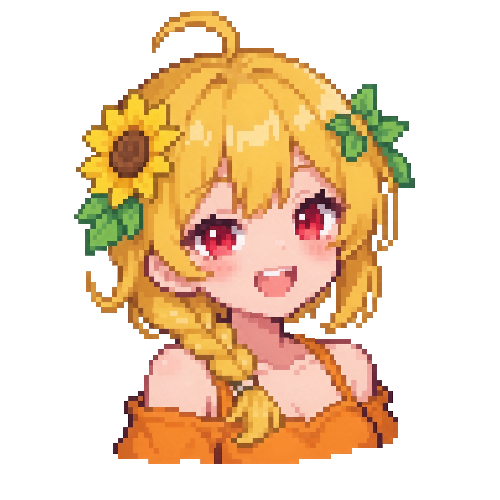
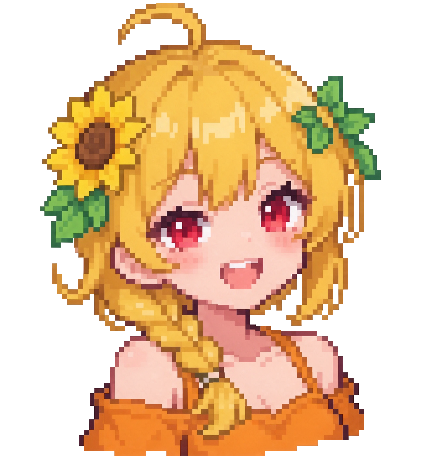
略微缩放NPC采花匠的对话肖像图

diff --git a/Common/UI/PortraitUISystem.cs b/Common/UI/PortraitUISystem.cs
@@ -6,11 +6,10 @@ using Terraria;
 using Terraria.ID;
 using Terraria.ModLoader;
 using Terraria.UI;
-using CalamityMod.Prefixes;
-using LaziestNPC.Content.NPCs.TownNPCs;
 using Terraria.GameContent;
 using Terraria.UI.Chat;
 using Terraria.Localization;
+using LaziestNPC.Content.NPCs.TownNPCs;
 
 namespace LaziestNPC.Common.UI
 {
@@ -25,7 +24,7 @@ namespace LaziestNPC.Common.UI
         private int portraitAnimTimer = 0; //弹跳计时器
 
         //2.注册绘制层
-        //找到原版对话窗口所在的图层，在它后面插入我们自己的肖像层。
+        //找到原版对话窗口所在的图层，在它后面插入肖像层。
         //这样肖像会绘制在对话窗口旁边，且不会挡住对话内容。
         public override void ModifyInterfaceLayers(List<GameInterfaceLayer> layers)
         {
@@ -85,7 +84,7 @@ namespace LaziestNPC.Common.UI
             float offsetX = -28f; //负值往左，正值往右
             float offsetY = -25f; //负值往上，正值往下
 
-            //(5-1) 计算弹跳偏移
+            //(6) 计算弹跳偏移
             portraitAnimTimer++;
             float bounceOffset = 0f;
             if (portraitAnimTimer < 20)
@@ -102,13 +101,13 @@ namespace LaziestNPC.Common.UI
             float portraitX = dialogLeft - size - gap + offsetX;
             float portraitY = dialogTop + offsetY + bounceOffset;
 
-            //(6)：绘制背景框
+            //(7)：绘制背景框
             Texture2D bg = ModContent.Request<Texture2D>("LaziestNPC/Assets/UI/PortraitBackground").Value;
             Main.spriteBatch.Draw(bg,
                 new Rectangle((int)portraitX, (int)portraitY, (int)size, (int)size),
                 Color.White);
 
-            //(7)：绘制肖像图
+            //(8)：绘制肖像图
             //路径来自 currentPortraitPath，是对话开始时随机缓存的那一张。
             Texture2D portrait = ModContent.Request<Texture2D>(currentPortraitPath).Value;
 
@@ -126,7 +125,7 @@ namespace LaziestNPC.Common.UI
                 new Rectangle((int)drawX, (int)drawY, (int)drawWidth, (int)drawHeight),
                 Color.White);
 
-            //(8)：绘制NPC名字
+            //(9)：绘制NPC名字
             //名字显示在肖像框下方，水平居中。
             string npcName = Language.GetTextValue($"Mods.LaziestNPC.NPCs.{npc.ModNPC.Name}.PortraitName");
             Vector2 nameSize = ChatManager.GetStringSize(FontAssets.MouseText.Value, npcName, Vector2.One);
@@ -140,13 +139,37 @@ namespace LaziestNPC.Common.UI
         //每张图等概率。
         private string PickPortraitPath(NPC npc)
         {
+            if (npc.ModNPC is BossNPC)
+            {
+                int num = Main.rand.Next(2);
+                return "LaziestNPC/Assets/Portraits/BossNPC_" + num;
+            }
             if (npc.ModNPC is NatureNPC)
             {
-                int variant = Main.rand.Next(3);
-                return "LaziestNPC/Assets/Portraits/NatureNPC_" + variant;
+                int num = Main.rand.Next(3);
+                return "LaziestNPC/Assets/Portraits/NatureNPC_" + num;
             }
+            /*if (npc.ModNPC is NatureNPC)
+            {
+                int num = Main.rand.Next(3);
+                return "LaziestNPC/Assets/Portraits/NatureNPC_" + num;
+            }
+            if (npc.ModNPC is NatureNPC)
+            {
+                int num = Main.rand.Next(3);
+                return "LaziestNPC/Assets/Portraits/NatureNPC_" + num;
+            }
+            if (npc.ModNPC is NatureNPC)
+            {
+                int num = Main.rand.Next(3);
+                return "LaziestNPC/Assets/Portraits/NatureNPC_" + num;
+            }
+            if (npc.ModNPC is NatureNPC)
+            {
+                int num = Main.rand.Next(3);
+                return "LaziestNPC/Assets/Portraits/NatureNPC_" + num;
+            }*/
 
-            
             return null;
         }
     }
